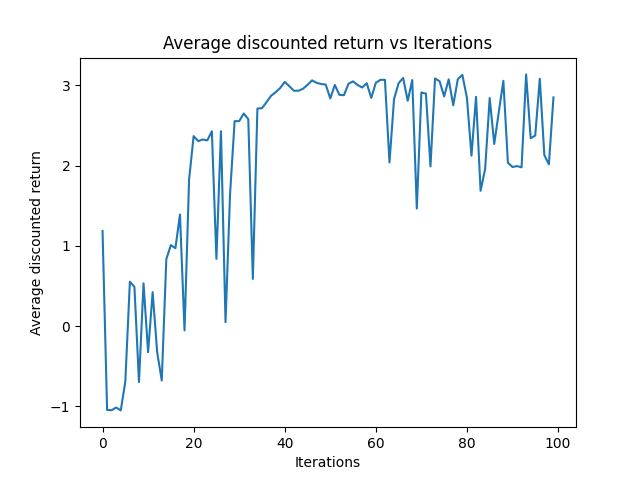
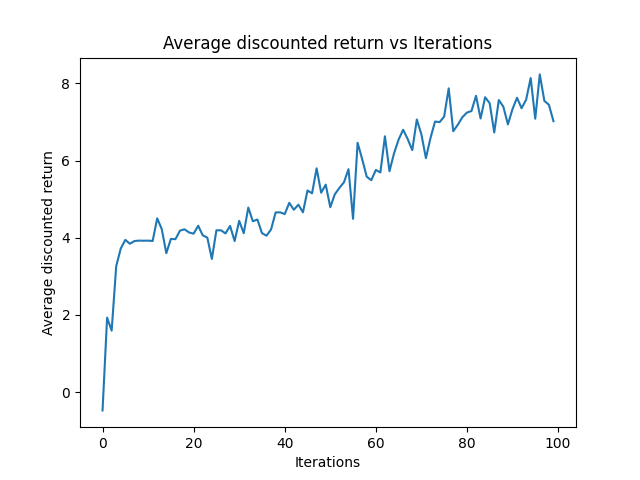
part 1 fixes

diff --git a/tabular_q.py b/tabular_q.py
@@ -53,6 +53,7 @@ class TabularQAgent:
         self.avg_dist_training = []
 
     def get_action(self,state):
+        state  = tuple(state)
         if state in self.qtable:
             return np.argmax(self.qtable[state])
         else:
@@ -191,6 +192,7 @@ class TabularQAgent:
                     
     def run_episode(self, state):
         done = False
+        state = tuple(state)
         while(not done):
             greedy = True
             if(self.eps_type == 'constant'):
@@ -199,7 +201,7 @@ class TabularQAgent:
             
             action = self.choose_action(state, greedy)
             next_state, reward, done, _ = self.env.step(action)
-            new_state = tuple(new_state) 
+            new_state = tuple(next_state) 
 
             if(state not in self.qtable):
                 self.qtable[state] = np.zeros(5)
